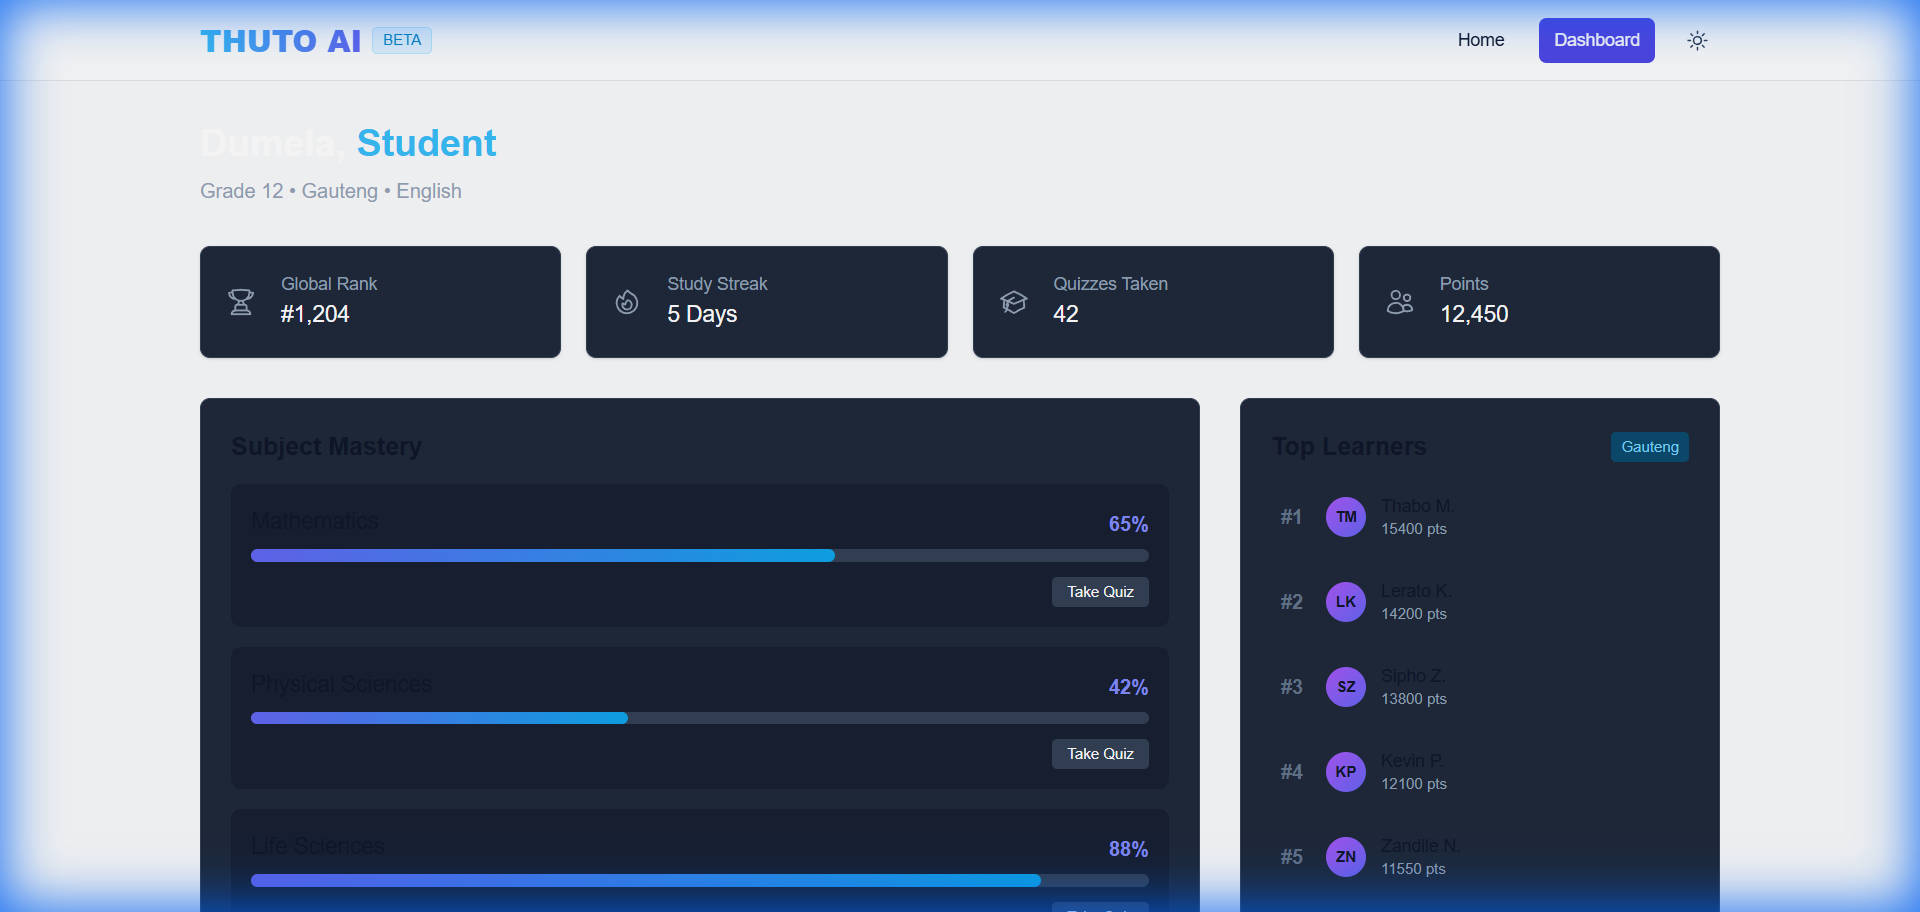
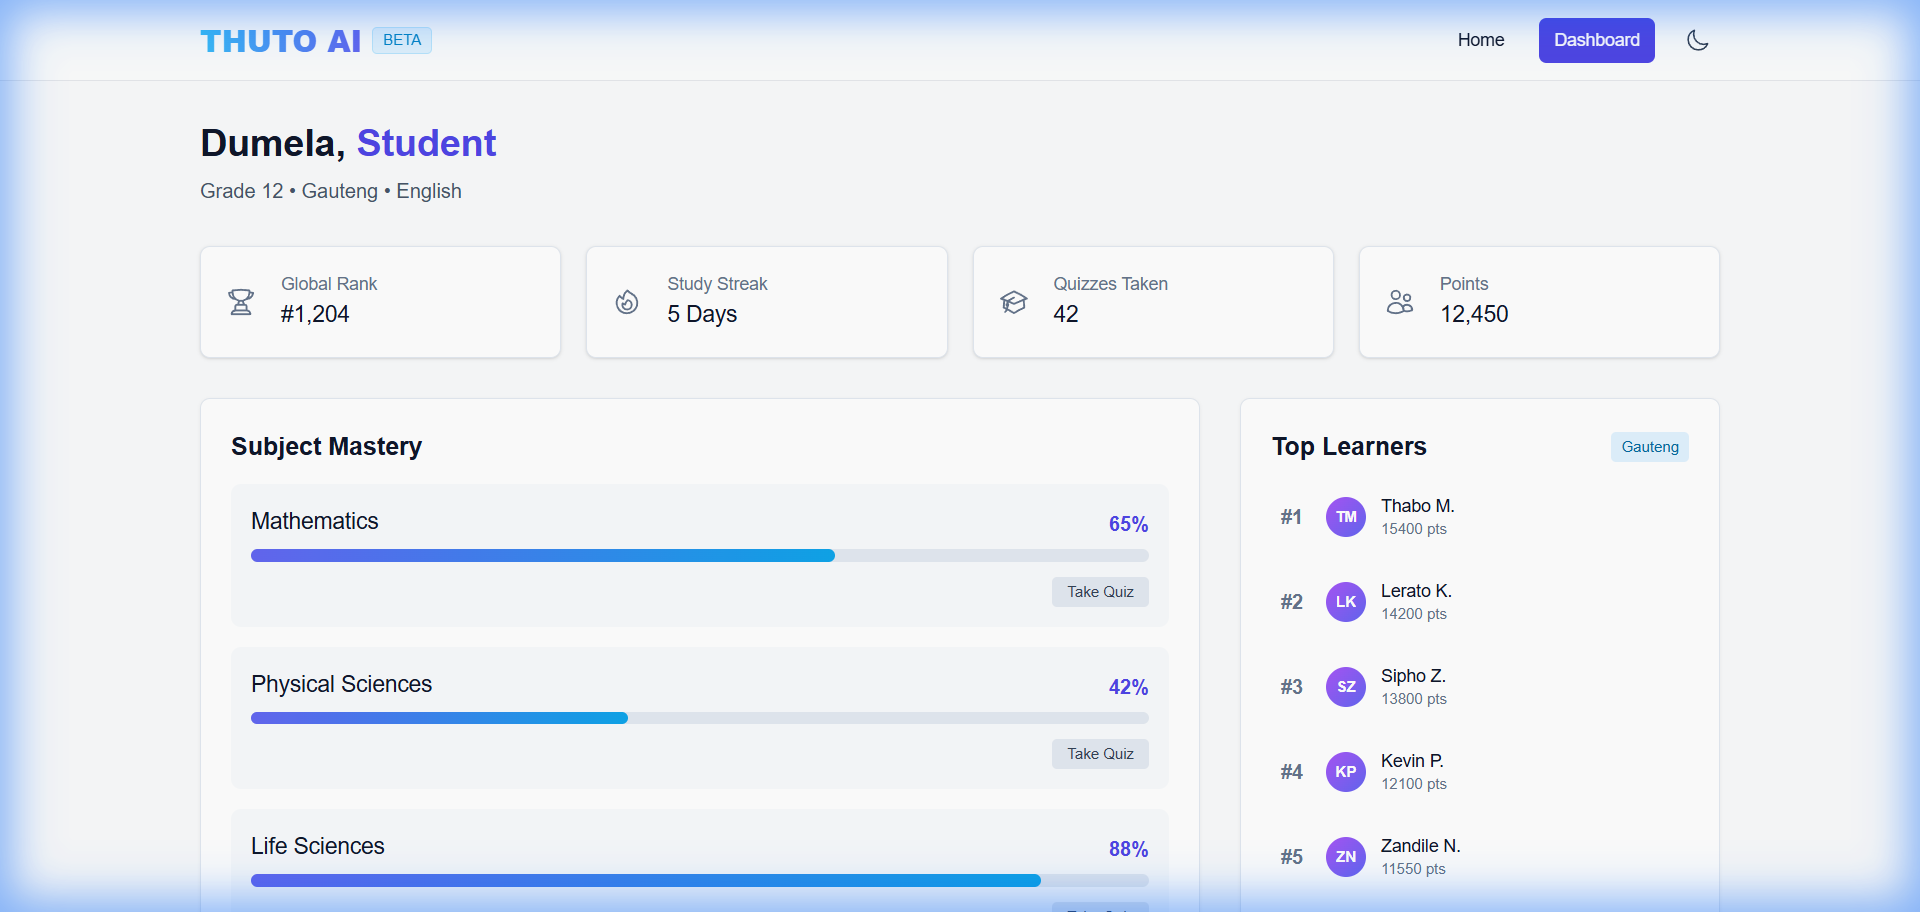
Update screenshots reflecting new themes and fixes

diff --git a/client/src/components/ThemeToggle.vue b/client/src/components/ThemeToggle.vue
@@ -1,5 +1,5 @@
 <template>
-  <button @click="toggleTheme" class="p-2 rounded-md hover:bg-slate-700 dark:hover:bg-slate-700 text-slate-700 dark:text-gray-200 transition-colors" title="Toggle Theme">
+  <button @click="toggleTheme" class="p-2 rounded-md hover:bg-gray-200 dark:hover:bg-slate-700 text-slate-700 dark:text-gray-200 transition-colors" title="Toggle Theme">
     <sun-icon v-if="isDark" class="w-5 h-5" />
     <moon-icon v-else class="w-5 h-5" />
   </button>

diff --git a/client/src/style.css b/client/src/style.css
@@ -3,5 +3,5 @@
 @tailwind utilities;
 
 body {
-  @apply bg-slate-900 text-slate-100;
+  @apply bg-gray-50 dark:bg-slate-900 text-slate-900 dark:text-slate-100;
 }
